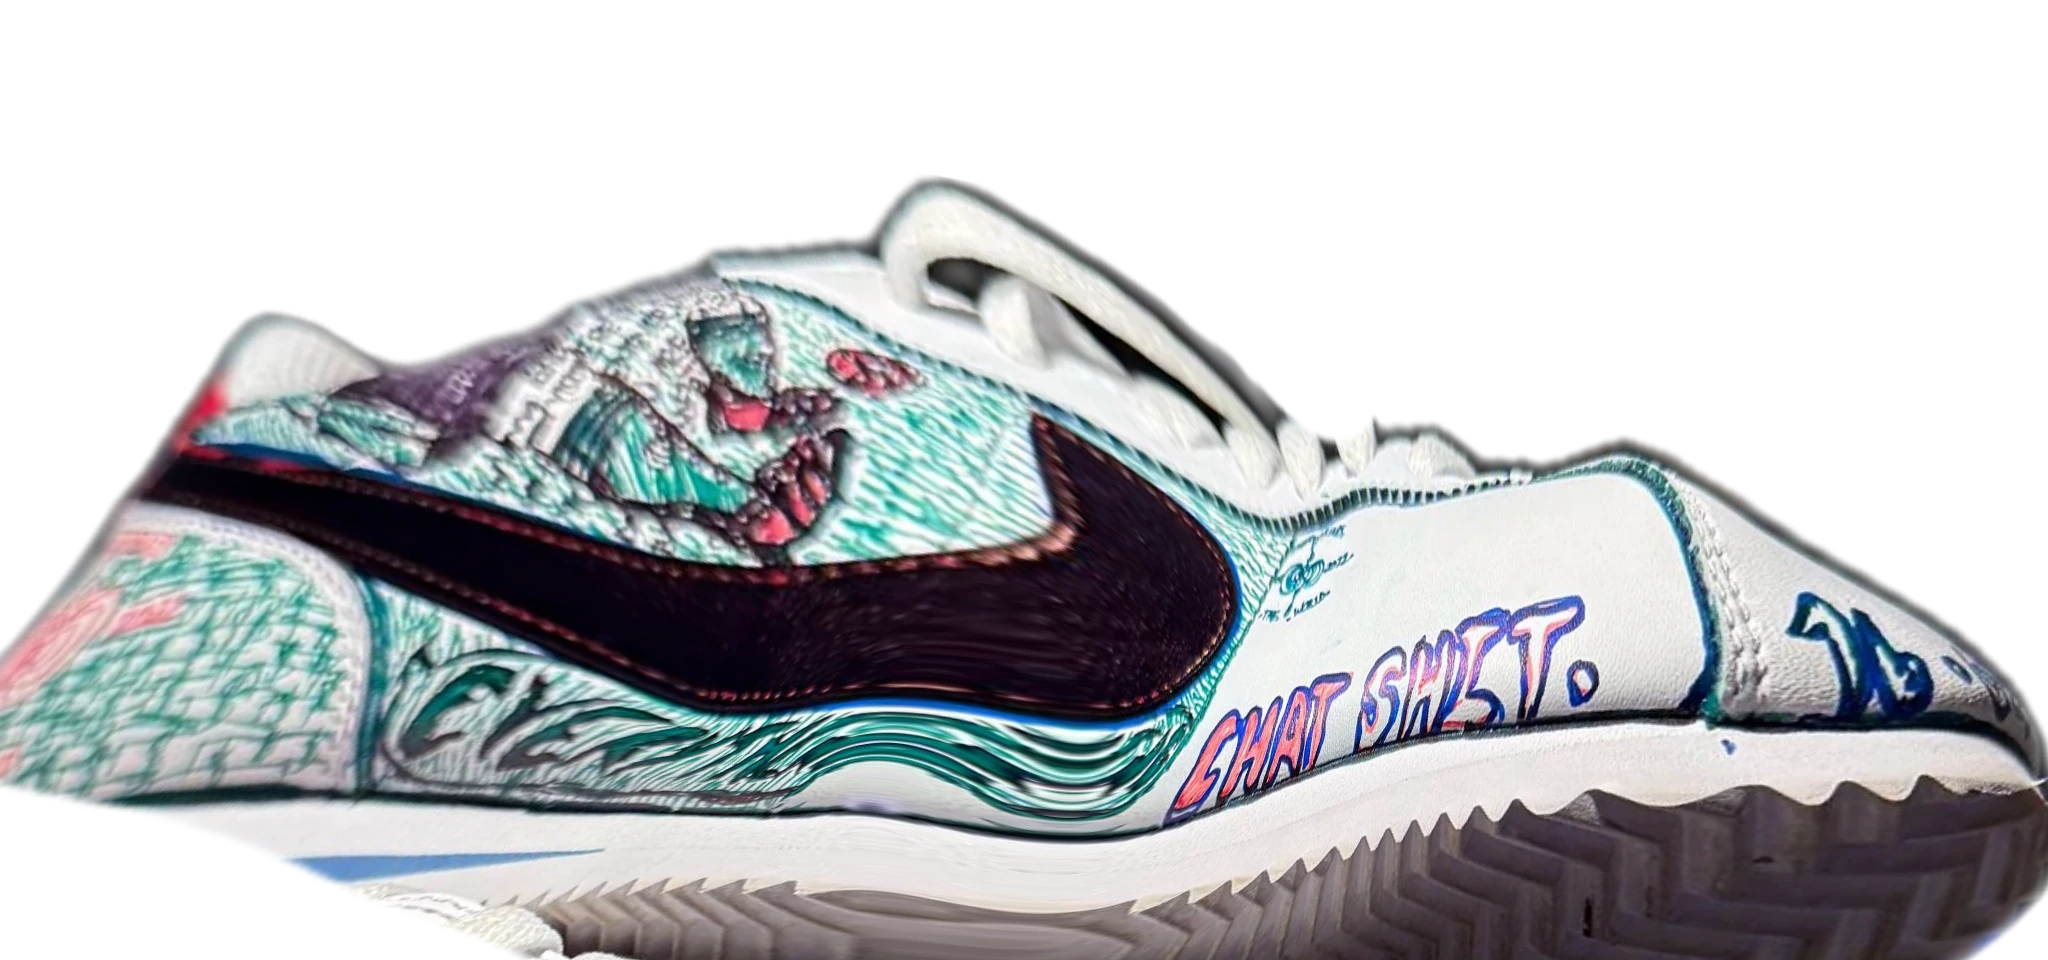
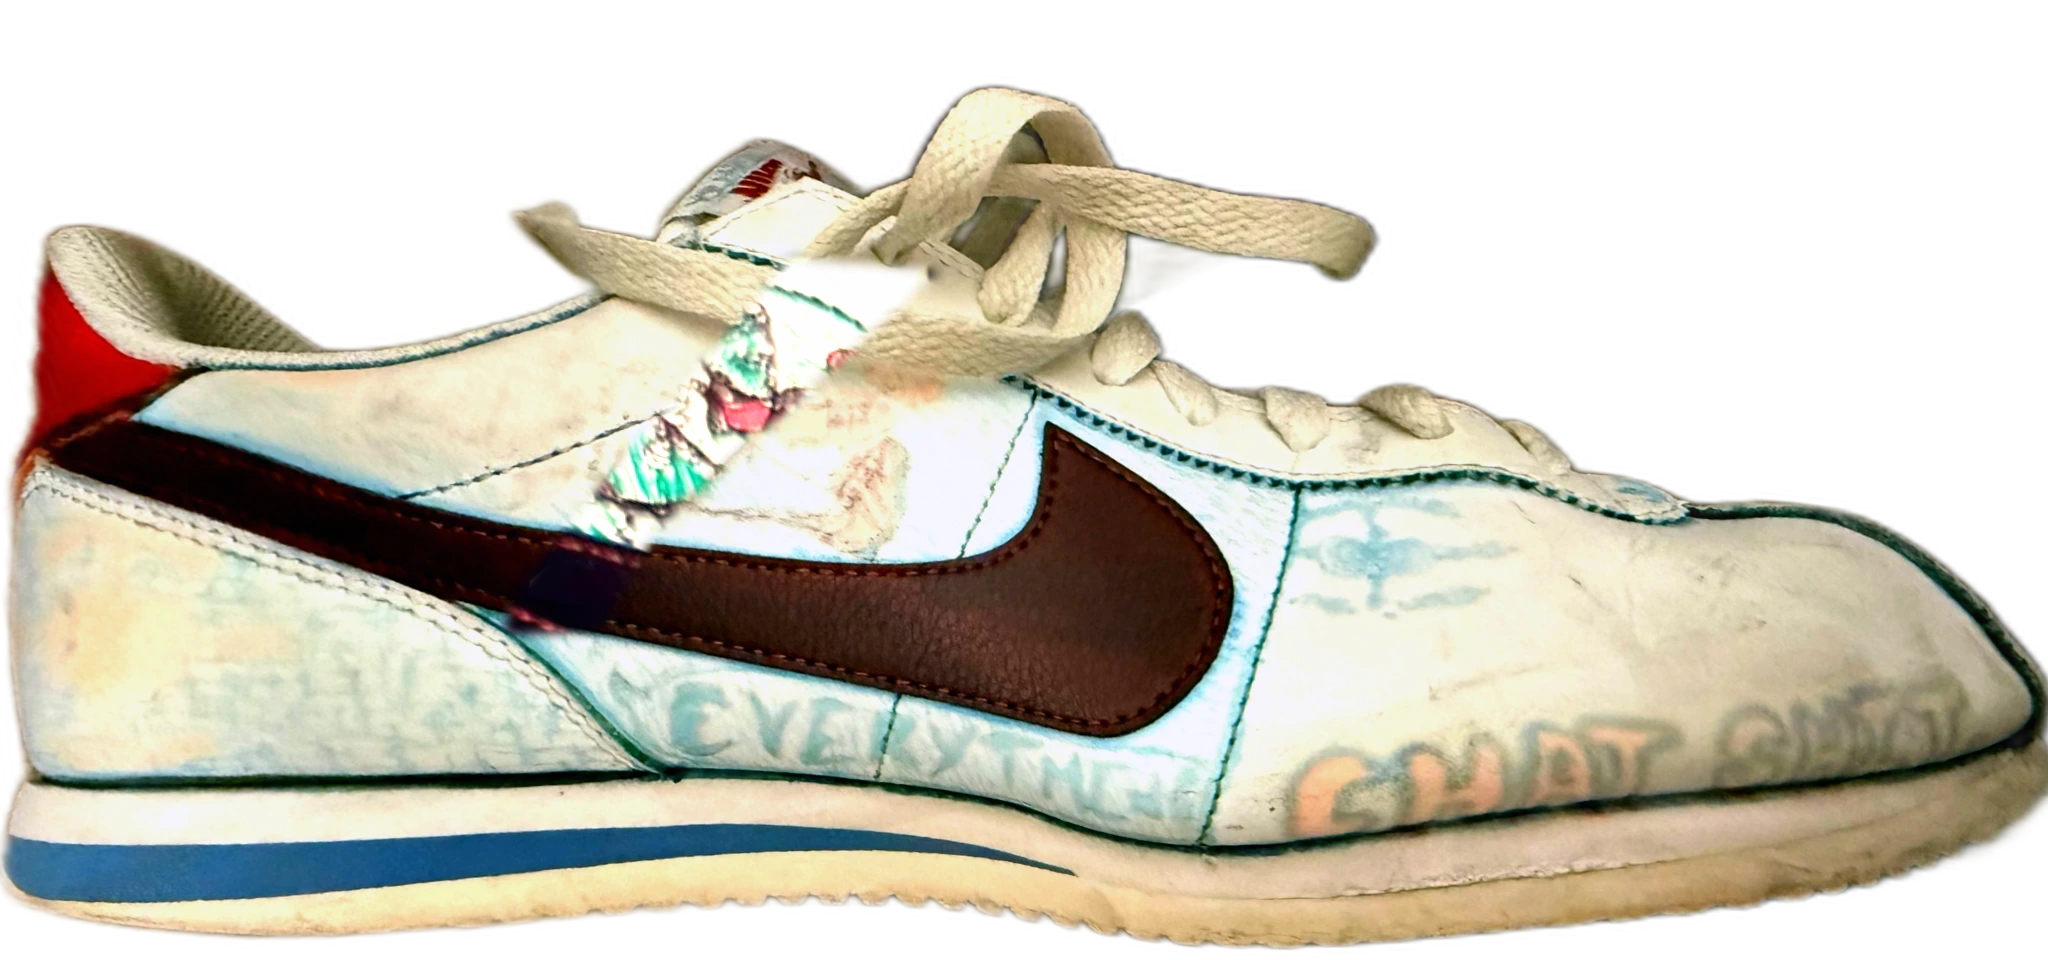
Collabs: new straight-on art for STRAIGHT SHOOTER and CHAT SHIT. sides; drop-down from the left; black Sondr Cinematics and Hustler Jerseys pages
- Projects drop-down chips now hang from the left edge of the Projects chip
- /sondr-cinematics: black page and header, yellow camera logo, red name and FRAMES / ANIMATIONS
- /hustler-jerseys: black page and header, yellow lettering round the logo
- new colour token --color-yellow (#E7C427, from the Hustler logo)

Claude-Session: https://claude.ai/code/session_0114D3hwBVCmsXTQfgBtgPvQ

diff --git a/site/app/globals.css b/site/app/globals.css
@@ -8,6 +8,7 @@
 @theme static {
   --color-*: initial;
   --color-red: #F80A02;
+  --color-yellow: #E7C427; /* the Hustler Jerseys logo's yellow (dark pages) */
   --color-cream: #FFF3D8;
   --color-black: #000000;
   --color-white: #FFFFFF;
@@ -180,13 +181,13 @@ html.lenis, html.lenis body { height: auto; }
 .dock-chip.is-active .dock-link { color: var(--color-white); }
 .dock-link:focus-visible { outline: none; }
 .dock-chip:has(.dock-link:focus-visible) { outline: 3px solid var(--color-red); outline-offset: 3px; }
-/* Projects drop-down: no box, just chips like the nav ones, stacked one under another; they drop in one by one */
+/* Projects drop-down: no box, just chips like the nav ones, stacked one under another from the chip's left edge; they drop in one by one */
 .dock-chip.has-menu { position: relative; }
 .dock-menu-btn { background: none; border: 0; padding: 0 .35em .04em; font: inherit; color: inherit; cursor: pointer; }
 .dock-chip.is-active .dock-menu-btn { color: var(--color-white); }
 .dock-menu {
-  position: absolute; top: 100%; right: 0; z-index: 30; padding-top: .28em;
-  display: flex; flex-direction: column; align-items: flex-end; gap: .22em;
+  position: absolute; top: 100%; left: 0; z-index: 30; padding-top: .28em;
+  display: flex; flex-direction: column; align-items: flex-start; gap: .22em;
   visibility: hidden; pointer-events: none; transition: visibility 0s .3s;
 }
 .dock-menu.is-open { visibility: visible; pointer-events: auto; transition: none; }
@@ -692,3 +693,15 @@ html.cine-on, html.cine-on body { overflow: hidden; }
   .sheet { margin: 24px 16px 0; padding: 24px 16px 20px; }
   .sheet-grid { --sheet-cols: 2; }
 }
+
+/* ==========================================================================
+   Dark pages (.page-dark on the page wrapper): black page + header, logos turned white.
+   /sondr-cinematics: yellow camera logo, red name and section titles. /hustler-jerseys: yellow lettering round the logo.
+   ========================================================================== */
+html:has(.page-dark), html:has(.page-dark) body { background: var(--color-black); }
+html:has(.page-dark) .site-header.is-sticky { background: var(--color-black); }
+html:has(.page-dark) .mark img, html:has(.page-dark) .brand-mark img, html:has(.page-dark) .brand-float-link img { filter: invert(1); }
+.page-dark { color: var(--color-white); }
+.page-dark .cat-hint, .page-dark .coming { color: var(--color-white); }
+.page-cine .brand-name, .page-cine .cat-title { color: var(--color-red); }
+.page-hustler .cat-arc-text { fill: var(--color-yellow); stroke: var(--color-yellow); }

diff --git a/site/app/sondr-cinematics/page.tsx b/site/app/sondr-cinematics/page.tsx
@@ -18,10 +18,10 @@ export default function Page() {
   return (
     <>
       <CinematicsIntro />
-      <div className="gallery-page gallery-page--logo-led">
+      <div className="gallery-page gallery-page--logo-led page-dark page-cine">
         <header className="brand-head">
           <Image
-            className="brand-logo" src="/brands/sondr-cinematics-red.webp" alt="Sondr Cinematics logo: a hand-drawn camera"
+            className="brand-logo" src="/brands/sondr-cinematics-yellow.webp" alt="Sondr Cinematics logo: a hand-drawn camera"
             width={982} height={700} priority sizes="(max-width: 639px) 86vw, 46vw"
           />
           <h1 className="display-rough brand-name">Sondr Cinematics</h1>

diff --git a/site/app/hustler-jerseys/page.tsx b/site/app/hustler-jerseys/page.tsx
@@ -13,7 +13,7 @@ const category = PROJECTS.find((c) => c.id === "hustler-jerseys")!;
 /** Hustler Jerseys on its own page (Projects → Hustler Jerseys). Content lives in lib/galleries.ts. */
 export default function Page() {
   return (
-    <div className="gallery-page gallery-page--logo-led">
+    <div className="gallery-page gallery-page--logo-led page-dark page-hustler">
       {/* the Hustler Jerseys logo leads the page; the title stays for screen readers and search */}
       <h1 className="sr-only">Hustler Jerseys</h1>
       <CategoryGallery category={category} hint={false} />

diff --git a/site/CLAUDE.md b/site/CLAUDE.md
@@ -39,6 +39,9 @@ public/              artsy/comics/, projects/hustler-jerseys/, projects/school/ 
 | `--color-black` | #000000 | nav text, small text |
 | `--color-white` | #FFFFFF | page background |
 | `--color-landing` | #1E1E1E | landing background |
+| `--color-yellow` | #E7C427 | dark pages: Sondr Cinematics camera logo, Hustler Jerseys lettering (sampled from the Hustler logo) |
+
+Dark pages: `.page-dark` on a page wrapper turns the page and sticky header black and the header logos white (`html:has(.page-dark)`). Used on /sondr-cinematics (yellow camera logo public/brands/sondr-cinematics-yellow.webp, red SONDR CINEMATICS, red FRAMES / ANIMATIONS) and /hustler-jerseys (yellow lettering round the logo).
 Tailwind's default palette is switched off (`--color-*: initial`). No other colours, tints, gradients or transparency,
 except the music card (#1E1E1E landing black, greys #2c2c2c/#4a4a4a/#a7a7a7/#d6d6d6, shadow; Dhruv's Spotify reference), Mr. Sondr's smoke (grey #8A8A8A, blur/turbulence, fades) and the lighter's soft red glow and the TV look (static, scanlines, vignette, glow/fringes on TV text, the hero entrance's brief RGB glitch). Values are colour-profile corrected: use as written.
 
@@ -52,7 +55,7 @@ except the music card (#1E1E1E landing black, greys #2c2c2c/#4a4a4a/#a7a7a7/#d6d
 `--u` = one pixel of the 1512×982 mockup = `min(100vw/1512, 100vh/982)`. Phones (<640px) have their own rules at the end of globals.css.
 
 ## Nav
-The Projects chip opens a drop-down with no box: three separate cream chips (same look as the nav chips, red on hover / on their own page) stacked one under another under Projects, dropping in one by one: Hustler Jerseys → /hustler-jerseys · Case Studies → /case-studies · Collabs → /collabs. Built into components/ui/animated-dock.tsx (`menu` on a dock item; hover on mouse, tap on touch, Esc/outside tap closes); items in components/site/header.tsx. Projects chip is red on /projects, /hustler-jerseys, /case-studies and /collabs.
+The Projects chip opens a drop-down with no box: three separate cream chips (same look as the nav chips, red on hover / on their own page) stacked one under another from the left edge of the Projects chip, dropping in one by one: Hustler Jerseys → /hustler-jerseys · Case Studies → /case-studies · Collabs → /collabs. Built into components/ui/animated-dock.tsx (`menu` on a dock item; hover on mouse, tap on touch, Esc/outside tap closes); items in components/site/header.tsx. Projects chip is red on /projects, /hustler-jerseys, /case-studies and /collabs.
 
 ## Routes
 `/` landing + hero · `/artsy` · `/projects` (both categories together) · `/hustler-jerseys` (Hustler Jerseys alone) · `/case-studies` (Case Studies alone, category id "school") · `/sondr-cinematics` (brand page: every arrival plays a full-screen studio-style opener (components/site/cinematics-intro.tsx): Marvel-style flip through Dhruv's art, half of it Sondr Universe (12 panels × 90ms) → white flash → Mr. Sondr walking (public/brands/sondr-cinematics/intro.mp4, 7.6s, silent; vertical, so on landscape screens a sharp centre with feathered edges sits over a blurred, brightened copy that fills the screen; the camera follows Mr. Sondr's head and bust (`cine-follow`: bust centre measured 63% → 52% of the frame, scale 2.1 → 1.3); letterbox bars; phones just cover) → red title card (white camera logo public/brands/sondr-cinematics/logo-white.webp + "SONDR CINEMATICS" slam in, 1.5s) → card zooms through into the page. Click/tap/Esc/Enter/"Skip" jumps to the zoom-through; off with reduced motion. Plays on EVERY arrival: the start effect re-runs when React re-shows the kept-alive page, and the header brand logo dispatches `sondr:cine-replay` when clicked while already on the page, then the camera logo centred in red (public/brands/sondr-cinematics-red.webp; the header keeps the black one) with "SONDR CINEMATICS" under it in red display lettering (like the other page titles), extra space, then FRAMES and ANIMATIONS in black, laid out like /artsy (`CINEMATICS` in lib/galleries.ts). FRAMES (contact sheet): Arguments, Beautiful Figures, Intimate Things, Nighttime in Sondr City (public/brands/sondr-cinematics/frames/). ANIMATIONS (contact sheet, `video` on the entry): Live Arguments, Live Intimate Things, Live Nighttime in Sondr City (public/brands/sondr-cinematics/animations/: H.264 MP4 + WebP poster; the last is the intro clip). Cards loop the clip silently; the viewer plays it muted with controls (Live Arguments has sound, unmutable there)) · `/collabs` (SONDR × Cortez: Dhruv's hand-drawn 1/1 Nike Cortez pair in 3D. The page embeds public/collabs/viewer.html full-screen under the header (iframe). Viewer = three.js bundle (viewer.js, built outside the site) + cortez.glb (Nike Cortez model, generated on Dhruv's Higgsfield account from Nike's product photo, textures WebP) + art/*.webp (his art, cut from his photos, projected onto the model's sides, heel and toe in a shader; model's own sole, laces and tags stay). Flow: pair spins (drag to rotate) → click splits into LEFT 24.12.2008 / RIGHT 11.02.2005 → click one → dark studio full-screen, drag to rotate, scroll to zoom. Lettering is small Kith-style Inter caps: "SONDR × CORTEZ", "BY D·HARDIN · 1 OF 1") · `/about` (Mr. Sondr bottom-left in headphones: lights up with the Zippo on arrival, smokes, nods to the music; "ABOUT ME" top-right with Dhruv's bio under it; copy in app/about/page.tsx). Only `/` ever shows the landing.
